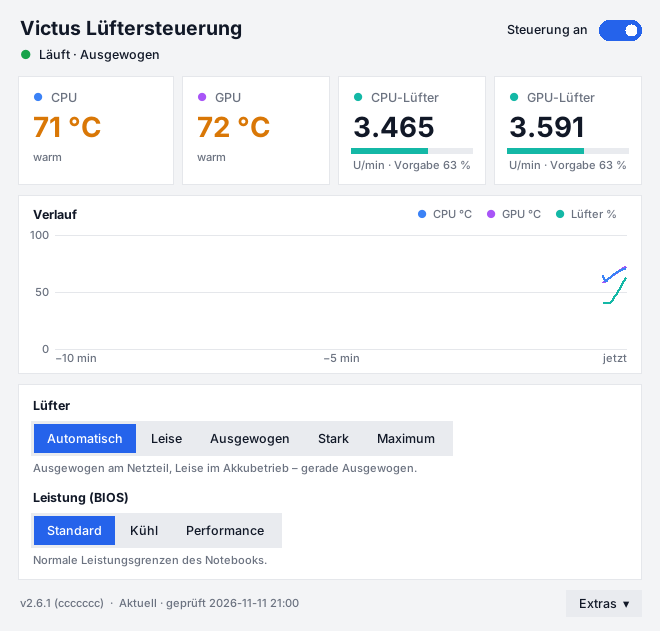
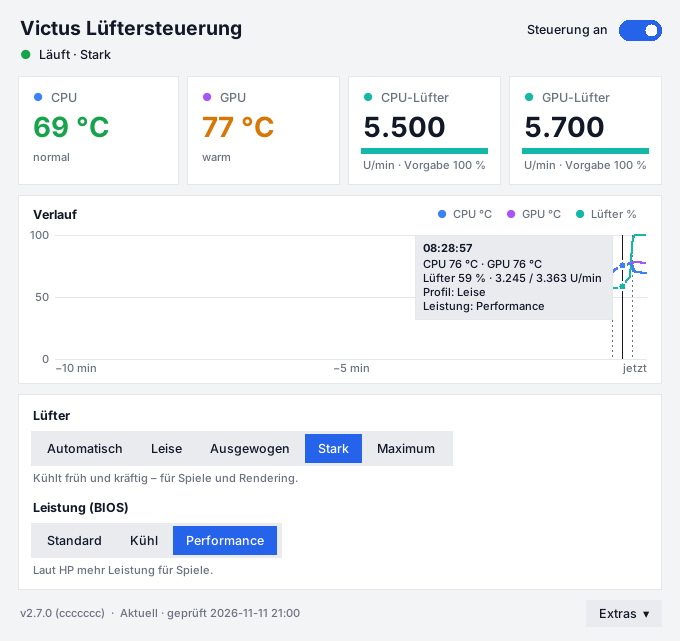
Verlauf mit Maus-Hover, 3DMark-Hinweis entfernt
- Diagramm: Beim Überfahren mit der Maus Linie und Punkte am nächsten
  Messpunkt sowie Infofeld mit Uhrzeit, CPU/GPU, Lüfter (% und U/min),
  aktivem Lüfterprofil und Leistungsmodus
- Gestrichelte Linien markieren Wechsel von Profil oder Leistung
- Verlaufseinträge speichern dafür Profil (inkl. 'automatisch', Maximum,
  Steuerung aus) und Leistungsmodus
- Hinweis zur 3DMark-Messung aus Oberfläche und README entfernt
- Mindestbreite 680 px (Fenster springt nicht bei 100 % Lüfter)

Claude-Session: https://claude.ai/code/session_01UJvDhEb6xvrJq1QD9orATg

diff --git a/victus_fan/gui.py b/victus_fan/gui.py
@@ -49,15 +49,13 @@ FAN_HINTS = {
 }
 PAUSED_HINT = "Die Lüftersteuerung ist aus – das BIOS regelt die Lüfter wie ab Werk."
 
-# BIOS-Leistungsmodus (wie im OMEN Gaming Hub). Gemessen am Victus BV8D4EA
-# (3DMark Speed Way) ohne Unterschied - das steht ehrlich in der Erklärung.
+# BIOS-Leistungsmodus (wie im OMEN Gaming Hub).
 BIOS_LABELS = {"default": "Standard", "cool": "Kühl", "performance": "Performance"}
 BIOS_HINTS = {
     "default": "Normale Leistungsgrenzen des Notebooks.",
     "cool": "Laut HP weniger Leistung und ein kühleres Gehäuse.",
     "performance": "Laut HP mehr Leistung für Spiele.",
 }
-BIOS_NOTE = " Auf diesem Notebook war in 3DMark kein Unterschied messbar."
 
 
 def profile_label(name: str) -> str:
@@ -486,19 +484,39 @@ class Metric(Card):
 
 
 class Chart(tk.Canvas):
-    """Verlauf der letzten 10 Minuten: CPU, GPU (°C) und Lüfter (% der Maximaldrehzahl)."""
+    """Verlauf der letzten 10 Minuten: CPU, GPU (°C) und Lüfter (% der Maximaldrehzahl).
+
+    Mit der Maus darüber: Messpunkt mit Uhrzeit, Werten, Lüfterprofil und
+    Leistungsmodus. Gestrichelte Linien markieren, wann Profil oder Leistung
+    gewechselt haben.
+    """
 
     PAD_L, PAD_R, PAD_T, PAD_B = 30, 8, 8, 18
+    SERIES = (("fan", FAN_COLOR), ("gpu", GPU_COLOR), ("cpu", CPU_COLOR))
 
     def __init__(self, master, history: deque):
-        super().__init__(master, bg=C.CARD, height=140, width=300, highlightthickness=0)
+        super().__init__(master, bg=C.CARD, height=150, width=300, highlightthickness=0)
         self.history = history
+        self.hover_x: int | None = None
         self.bind("<Configure>", lambda _e: self.redraw())
+        self.bind("<Motion>", self._on_motion)
+        self.bind("<Leave>", self._on_leave)
+
+    def _on_motion(self, event) -> None:
+        self.hover_x = event.x
+        self.redraw()
+
+    def _on_leave(self, _event) -> None:
+        self.hover_x = None
+        self.redraw()
 
     def _xy(self, t, v, now, w, h):
         pw, ph = w - self.PAD_L - self.PAD_R, h - self.PAD_T - self.PAD_B
         return (self.PAD_L + pw * (1 - (now - t) / HISTORY_SECONDS),
                 self.PAD_T + ph * (1 - max(0, min(100, v)) / 100))
+
+    def _visible(self, now: float) -> list[dict]:
+        return [e for e in self.history if now - e["t"] <= HISTORY_SECONDS]
 
     def redraw(self) -> None:
         self.delete("all")
@@ -506,6 +524,7 @@ class Chart(tk.Canvas):
         if w < 50:
             return
         now = time.time()
+        entries = self._visible(now)
         for v in (0, 50, 100):
             _, y = self._xy(now, v, now, w, h)
             self.create_line(self.PAD_L, y, w - self.PAD_R, y, fill=C.BORDER)
@@ -514,18 +533,62 @@ class Chart(tk.Canvas):
             x, _ = self._xy(now - minutes * 60, 0, now, w, h)
             self.create_text(x, h - 2, text="jetzt" if minutes == 0 else f"−{minutes} min",
                              anchor=anchor, fill=C.MUTED, font=(FONT, 8))
+
+        # Wechsel von Lüfterprofil oder Leistung: gestrichelte senkrechte Linie
+        for prev, cur in zip(entries, entries[1:]):
+            if (prev["fan_label"], prev["bios"]) != (cur["fan_label"], cur["bios"]):
+                x, _ = self._xy(cur["t"], 0, now, w, h)
+                self.create_line(x, self.PAD_T, x, h - self.PAD_B, fill=C.MUTED, dash=(2, 3))
+
         drawn = False
-        for index, color in ((3, FAN_COLOR), (2, GPU_COLOR), (1, CPU_COLOR)):
+        for key, color in self.SERIES:
             points = []
-            for entry in self.history:
-                if entry[index] is not None and now - entry[0] <= HISTORY_SECONDS:
-                    points.extend(self._xy(entry[0], entry[index], now, w, h))
+            for e in entries:
+                if e[key] is not None:
+                    points.extend(self._xy(e["t"], e[key], now, w, h))
             if len(points) >= 4:
                 self.create_line(*points, fill=color, width=2, smooth=True)
                 drawn = True
         if not drawn:
             self.create_text(w / 2, h / 2 - 6, text="Verlauf erscheint nach einigen Sekunden",
                              fill=C.MUTED, font=(FONT, 9))
+            return
+        if self.hover_x is not None and self.PAD_L <= self.hover_x <= w - self.PAD_R:
+            self._draw_hover(entries, now, w, h)
+
+    def _draw_hover(self, entries: list[dict], now: float, w: int, h: int) -> None:
+        nearest = min(entries, key=lambda e: abs(self._xy(e["t"], 0, now, w, h)[0] - self.hover_x))
+        x, _ = self._xy(nearest["t"], 0, now, w, h)
+        self.create_line(x, self.PAD_T, x, h - self.PAD_B, fill=C.TEXT, width=1)
+        for key, color in self.SERIES:
+            if nearest[key] is not None:
+                _, y = self._xy(nearest["t"], nearest[key], now, w, h)
+                self.create_oval(x - 4, y - 4, x + 4, y + 4, fill=color, outline=C.CARD, width=2)
+
+        lines = [time.strftime("%H:%M:%S", time.localtime(nearest["t"])),
+                 f"CPU {fmt_temp(nearest['cpu'])} · GPU {fmt_temp(nearest['gpu'])}"]
+        rpm = nearest.get("rpm") or []
+        fan = f"{nearest['fan']:.0f} %" if nearest["fan"] is not None else "–"
+        lines.append(f"Lüfter {fan}" + (f" · {' / '.join(f'{r:,}'.replace(',', '.') for r in rpm)} U/min"
+                                        if rpm else ""))
+        lines.append(f"Profil: {nearest['fan_label']}")
+        lines.append(f"Leistung: {nearest['bios'] or '–'}")
+
+        # Infofeld neben der Linie, auf der Seite mit mehr Platz: Uhrzeit fett, darunter die Werte
+        head = self.create_text(0, 0, text=lines[0], anchor="nw", fill=C.TEXT, font=(FONT, 8, "bold"))
+        body = self.create_text(0, 0, text="\n".join(lines[1:]), anchor="nw", fill=C.TEXT,
+                                font=(FONT, 8), justify="left")
+        hx1, hy1, hx2, hy2 = self.bbox(head)
+        bx1, by1, bx2, by2 = self.bbox(body)
+        bw = max(hx2 - hx1, bx2 - bx1) + 16
+        bh = (hy2 - hy1) + 2 + (by2 - by1) + 12
+        left = x + 10 if x + 10 + bw <= w - self.PAD_R else x - 10 - bw
+        top = self.PAD_T
+        self.create_rectangle(left, top, left + bw, top + bh, fill=C.TRACK, outline=C.BORDER)
+        self.coords(head, left + 8, top + 6)
+        self.coords(body, left + 8, top + 6 + (hy2 - hy1) + 2)
+        self.tag_raise(head)
+        self.tag_raise(body)
 
 
 def _dark_title_bar(root: tk.Tk) -> None:
@@ -567,7 +630,7 @@ class App:
         self.root = tk.Tk()
         self.root.title("Victus Lüftersteuerung")
         self.root.configure(bg=C.BG)
-        self.root.minsize(660, 600)   # feste Breite: das Fenster springt nicht mit der Textlänge
+        self.root.minsize(680, 610)   # feste Breite: das Fenster springt nicht mit der Textlänge
         self.root.protocol("WM_DELETE_WINDOW", self.hide)
         try:
             from PIL import ImageTk
@@ -931,12 +994,26 @@ class App:
         running = status is not None and not status["stale"]
         if running and status["timestamp"] != self.last_ts:
             self.last_ts = status["timestamp"]
-            self.history.append((status["timestamp"], status["cpu_temp"], status["gpu_temp"],
-                                 self._fan_percent(status)))
+            self.history.append({
+                "t": status["timestamp"], "cpu": status["cpu_temp"], "gpu": status["gpu_temp"],
+                "fan": self._fan_percent(status), "rpm": status.get("fan_rpm") or [],
+                "fan_label": self._fan_label(status),
+                "bios": BIOS_LABELS.get(status.get("fan_mode", ""), ""),
+            })
         self._render_settings(override, status if running else None)
         self._render(status, running)
         if reschedule:
             self.root.after(self.POLL_MS, self.poll)
+
+    @staticmethod
+    def _fan_label(s: dict) -> str:
+        """Aktive Lüfter-Einstellung zu einem Messpunkt (für den Verlauf)."""
+        if s.get("mode") == "paused":
+            return "Steuerung aus (BIOS)"
+        if s.get("mode") == "max":
+            return MAX_LABEL
+        label = profile_label(s.get("profile", ""))
+        return label + (" (automatisch)" if s.get("profile_reason") in ("Netz", "Akku") else "")
 
     @staticmethod
     def _fan_percent(s: dict) -> float | None:
@@ -970,7 +1047,7 @@ class App:
         if not active:
             self.bios_hint.config(text="Bei ausgeschalteter Lüftersteuerung gilt der BIOS-Standard.")
         else:
-            self.bios_hint.config(text=BIOS_HINTS.get(bios, "") + (BIOS_NOTE if bios != "default" else ""))
+            self.bios_hint.config(text=BIOS_HINTS.get(bios, ""))
 
     def _set_state(self, text: str, color: str) -> None:
         self.state_dot.config(fg=color)

diff --git a/README.md b/README.md
@@ -42,6 +42,8 @@ Beim Überfahren zeigt es CPU- und GPU-Temperatur sowie die **tatsächliche Dreh
 
 Das Fenster zeigt Temperaturen und die gemessenen Lüfterdrehzahlen (der Balken zeigt die Drehzahl,
 der Strich darin das Ziel der Steuerung), den Verlauf der letzten 10 Minuten und die Einstellungen.
+Fährt man mit der Maus über den Verlauf, zeigt er für den Zeitpunkt Temperaturen, Lüfterdrehzahl
+sowie das aktive Lüfterprofil und den Leistungsmodus; gestrichelte Linien markieren Wechsel.
 Es folgt dem hellen oder dunklen Design von Windows. Seltener gebrauchte Funktionen
 (Updates, Hardware-Test, Sensoren, Konfiguration, Log, Dienst neu starten, Autostart) liegen
 unter **Extras**.
@@ -61,9 +63,8 @@ Das BIOS regelt die Lüfter wie ab Werk. Darunter gibt es zwei Einstellungen:
 | **Maximum** | Beide Lüfter dauerhaft mit voller Drehzahl (≈ 5400 U/min) |
 
 **Leistung (BIOS)** – derselbe Leistungsmodus wie im OMEN Gaming Hub: **Standard**, **Kühl**
-(laut HP weniger Leistung, kühleres Gehäuse) und **Performance** (laut HP mehr Leistung). Auf dem
-Victus BV8D4EA war in 3DMark Speed Way allerdings kein Unterschied messbar (2 284 / 2 275 /
-2 275 Punkte). Was die Leistung wirklich bestimmt, ist die **Stromversorgung**: Am HP-Netzteil
+(laut HP weniger Leistung, kühleres Gehäuse) und **Performance** (laut HP mehr Leistung).
+Was die Leistung wirklich bestimmt, ist die **Stromversorgung**: Am HP-Netzteil
 darf die CPU dauerhaft 54 W aufnehmen (65 W im Boost), an einer USB-C-Dockingstation nur 35 W.
 
 Die Oberfläche läuft mit normalen Benutzerrechten; nur der Hintergrunddienst spricht mit
